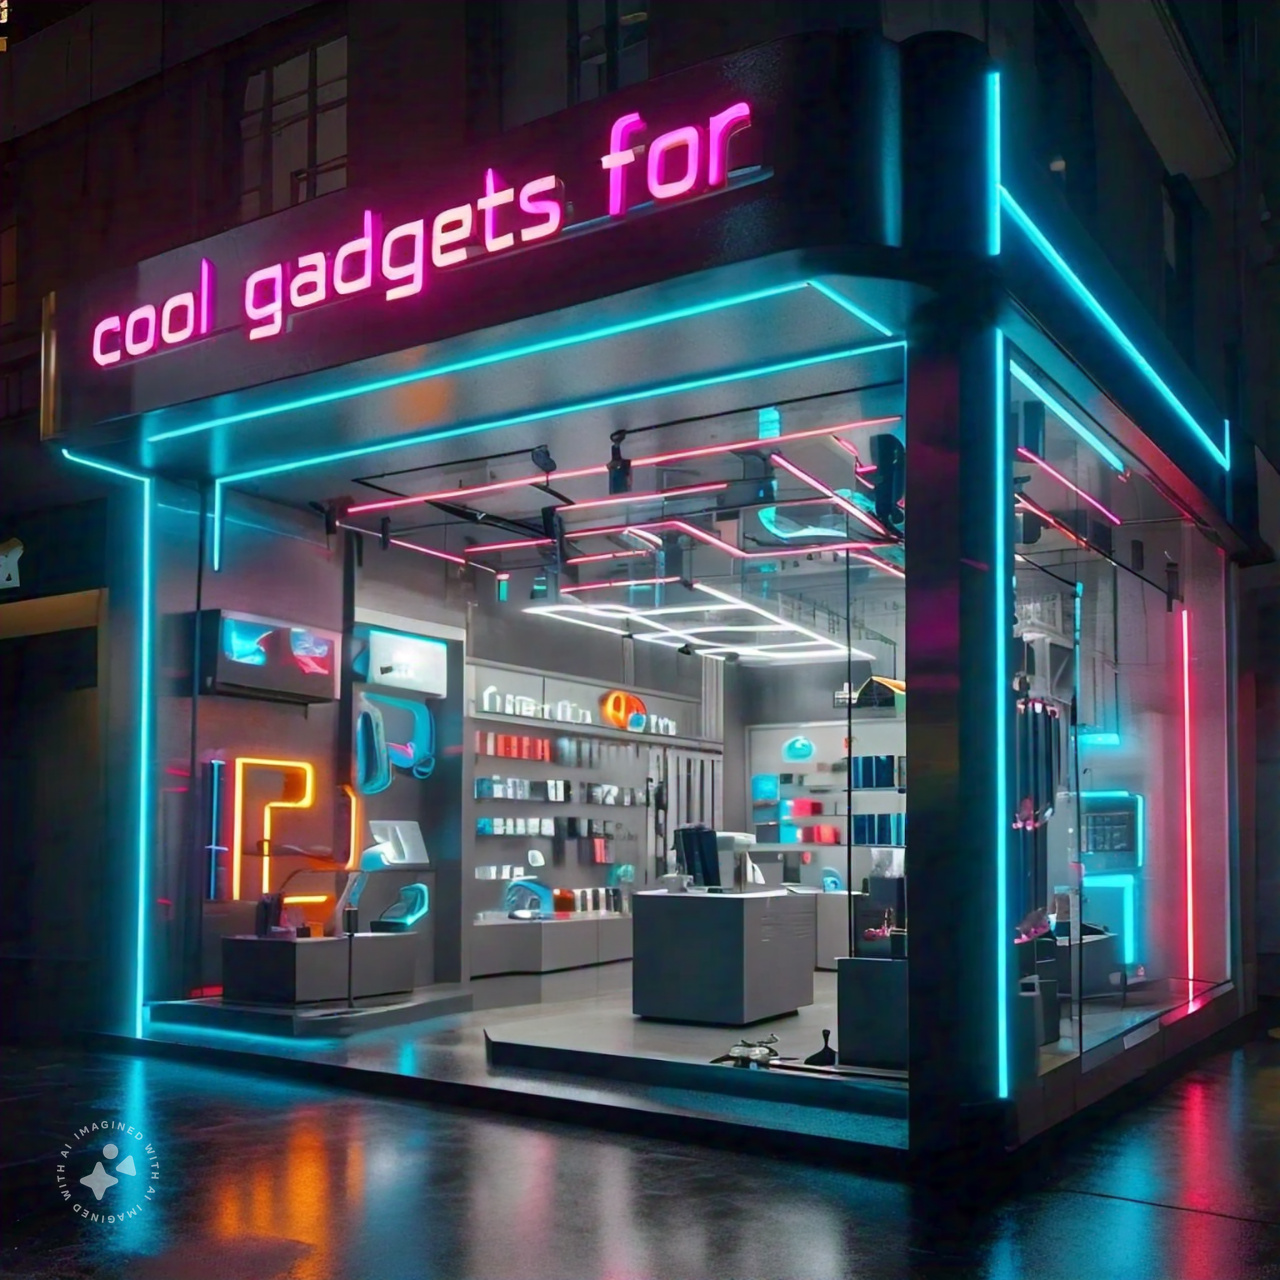
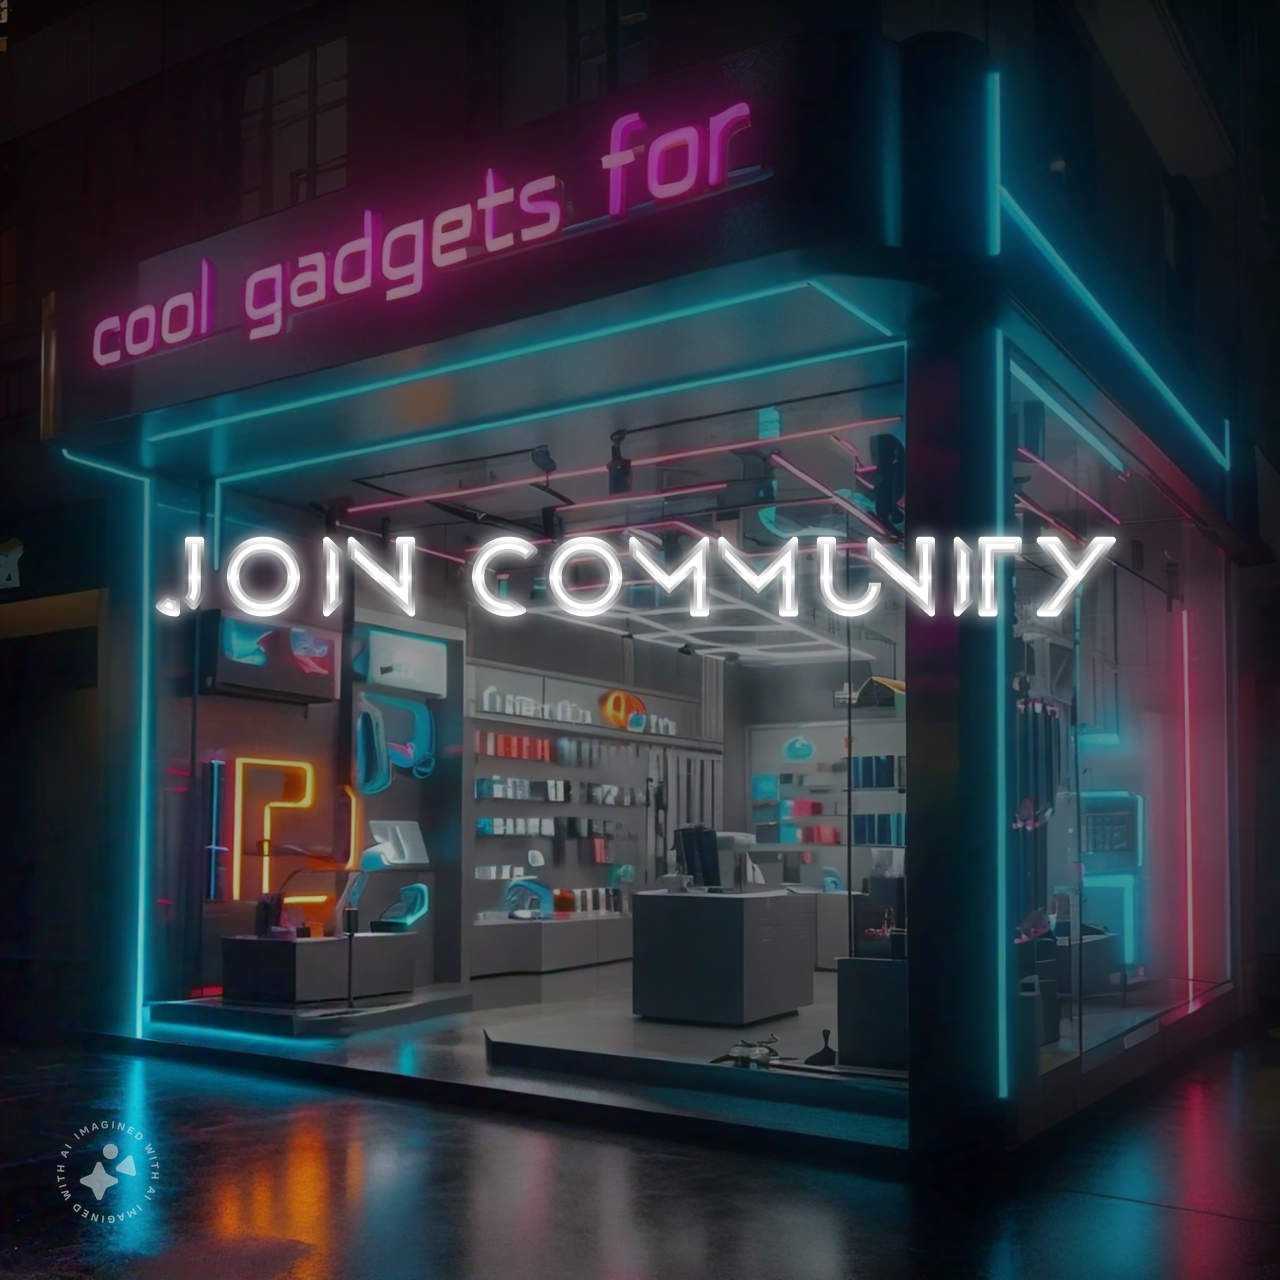
Cool Gadgets for...

diff --git a/lib/content/sections/Community.dart b/lib/content/sections/Community.dart
@@ -1,4 +1,3 @@
-import 'package:cool_gadgets/resources/public/colors_resources.dart';
 import 'package:cool_gadgets/resources/public/strings_resources.dart';
 import 'package:flutter/material.dart';
 import 'package:url_launcher/url_launcher.dart';
@@ -17,37 +16,17 @@ Widget coolGadgetsCommunity() {
               launchUrl(Uri.parse(StringsResources.communityLink), mode: LaunchMode.externalApplication);
 
             },
-            child: Stack(
-              children: [
-
-                Container(
-                  constraints: const BoxConstraints(minWidth: 199, maxWidth: 1024),
-                  alignment: Alignment.topCenter,
-                  child: ClipRRect(
-                      borderRadius: BorderRadius.circular(17),
-                      child: Image.asset(
-                        'images/cool_gadgets_community.jpg',
-                        fit: BoxFit.cover,
-                      )
-                  )
-                ),
-
-                Container(
-                    constraints: const BoxConstraints(minWidth: 199, maxWidth: 1024),
-                    color: ColorsResources.premiumDark.withOpacity(0.51),
-                  child: Center(
-                    child: Text(
-                        StringsResources.joinCommunity,
-                        style: const TextStyle(
-                            color: ColorsResources.premiumLight,
-                            fontSize: 31
-                        )
-                    ),
-                  )
+            child: Container(
+                constraints: const BoxConstraints(minWidth: 199, maxWidth: 1024),
+                alignment: Alignment.topCenter,
+                child: ClipRRect(
+                    borderRadius: BorderRadius.circular(17),
+                    child: Image.asset(
+                      'images/cool_gadgets_community.jpg',
+                      fit: BoxFit.cover,
+                    )
                 )
-
-              ]
-            )
+            ),
         )
       )
   );

diff --git a/lib/main.dart b/lib/main.dart
@@ -105,6 +105,8 @@ void setupContent() async {
   StringsResources.coolGadgetsForComputer;
   StringsResources.coolGadgetsForCamping;
 
+  StringsResources.joinCommunity;
+
   StringsResources.brandLUMSBURRY;
   StringsResources.brandLYKTRIX;
   StringsResources.brandMAGMO;
